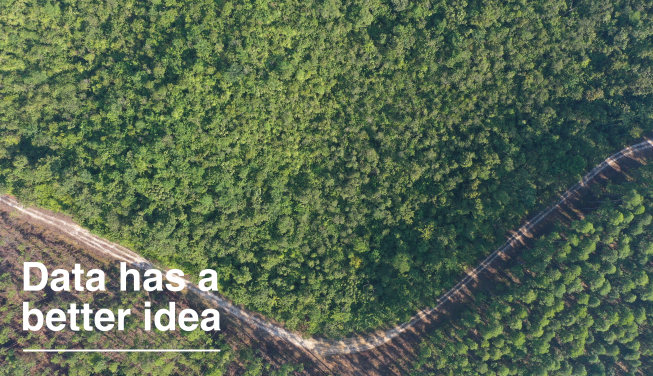
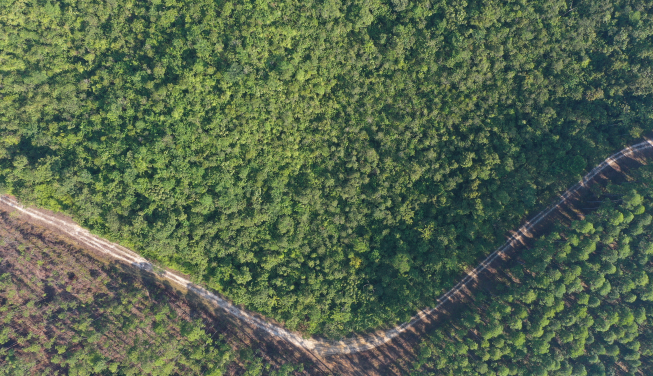
updated explore section

Changed region(s): [[0.0306, 0.6729, 0.3369, 0.8777], [0.0306, 0.9069, 0.3369, 0.9362]]

diff --git a/flr/templates/home.html b/flr/templates/home.html
@@ -73,7 +73,12 @@
 		<div class="row mx-auto">
 			<div class="col-sm-6 mb-4">
 				<div class="card">
-  					<img class="card-img-top" src="{% static 'img/explore_data.png' %}" height="300">
+  					<div class="" style="position: relative; text-align: left;">
+  						<img class="card-img-top" src="{% static 'img/explore_data.png' %}" height="300">
+  						<div class="container" style="position: absolute; color: white; bottom: 8px; left: 10px;">
+  							<p style="font-size: 20px;">Data has a better idea</p>
+  						</div>
+  					</div>
   					<div class="card-body">
    						<h5 class="card-title">Data</h5>
     					<p class="card-text">We use data-driven approach to enhance our capability</p>
@@ -83,7 +88,12 @@
 			</div>
 			<div class="col-sm-6 mb-4">
 				<div class="card">
-  					<img class="card-img-top" src="{% static 'img/explore_planting.png' %}" height="300">
+					<div class="" style="position: relative; text-align: left;">
+  						<img class="card-img-top" src="{% static 'img/explore_planting.png' %}" height="300">
+  						<div class="container" style="position: absolute; color: white; bottom: 8px; left: 10px;">
+  							<p style="font-size: 20px;">Together, we can do much more</p>
+  						</div>
+  					</div>
   					<div class="card-body">
    						<h5 class="card-title">Planting Program</h5>
     					<p class="card-text">Forest restoration requires collaboration from everyone</p>
